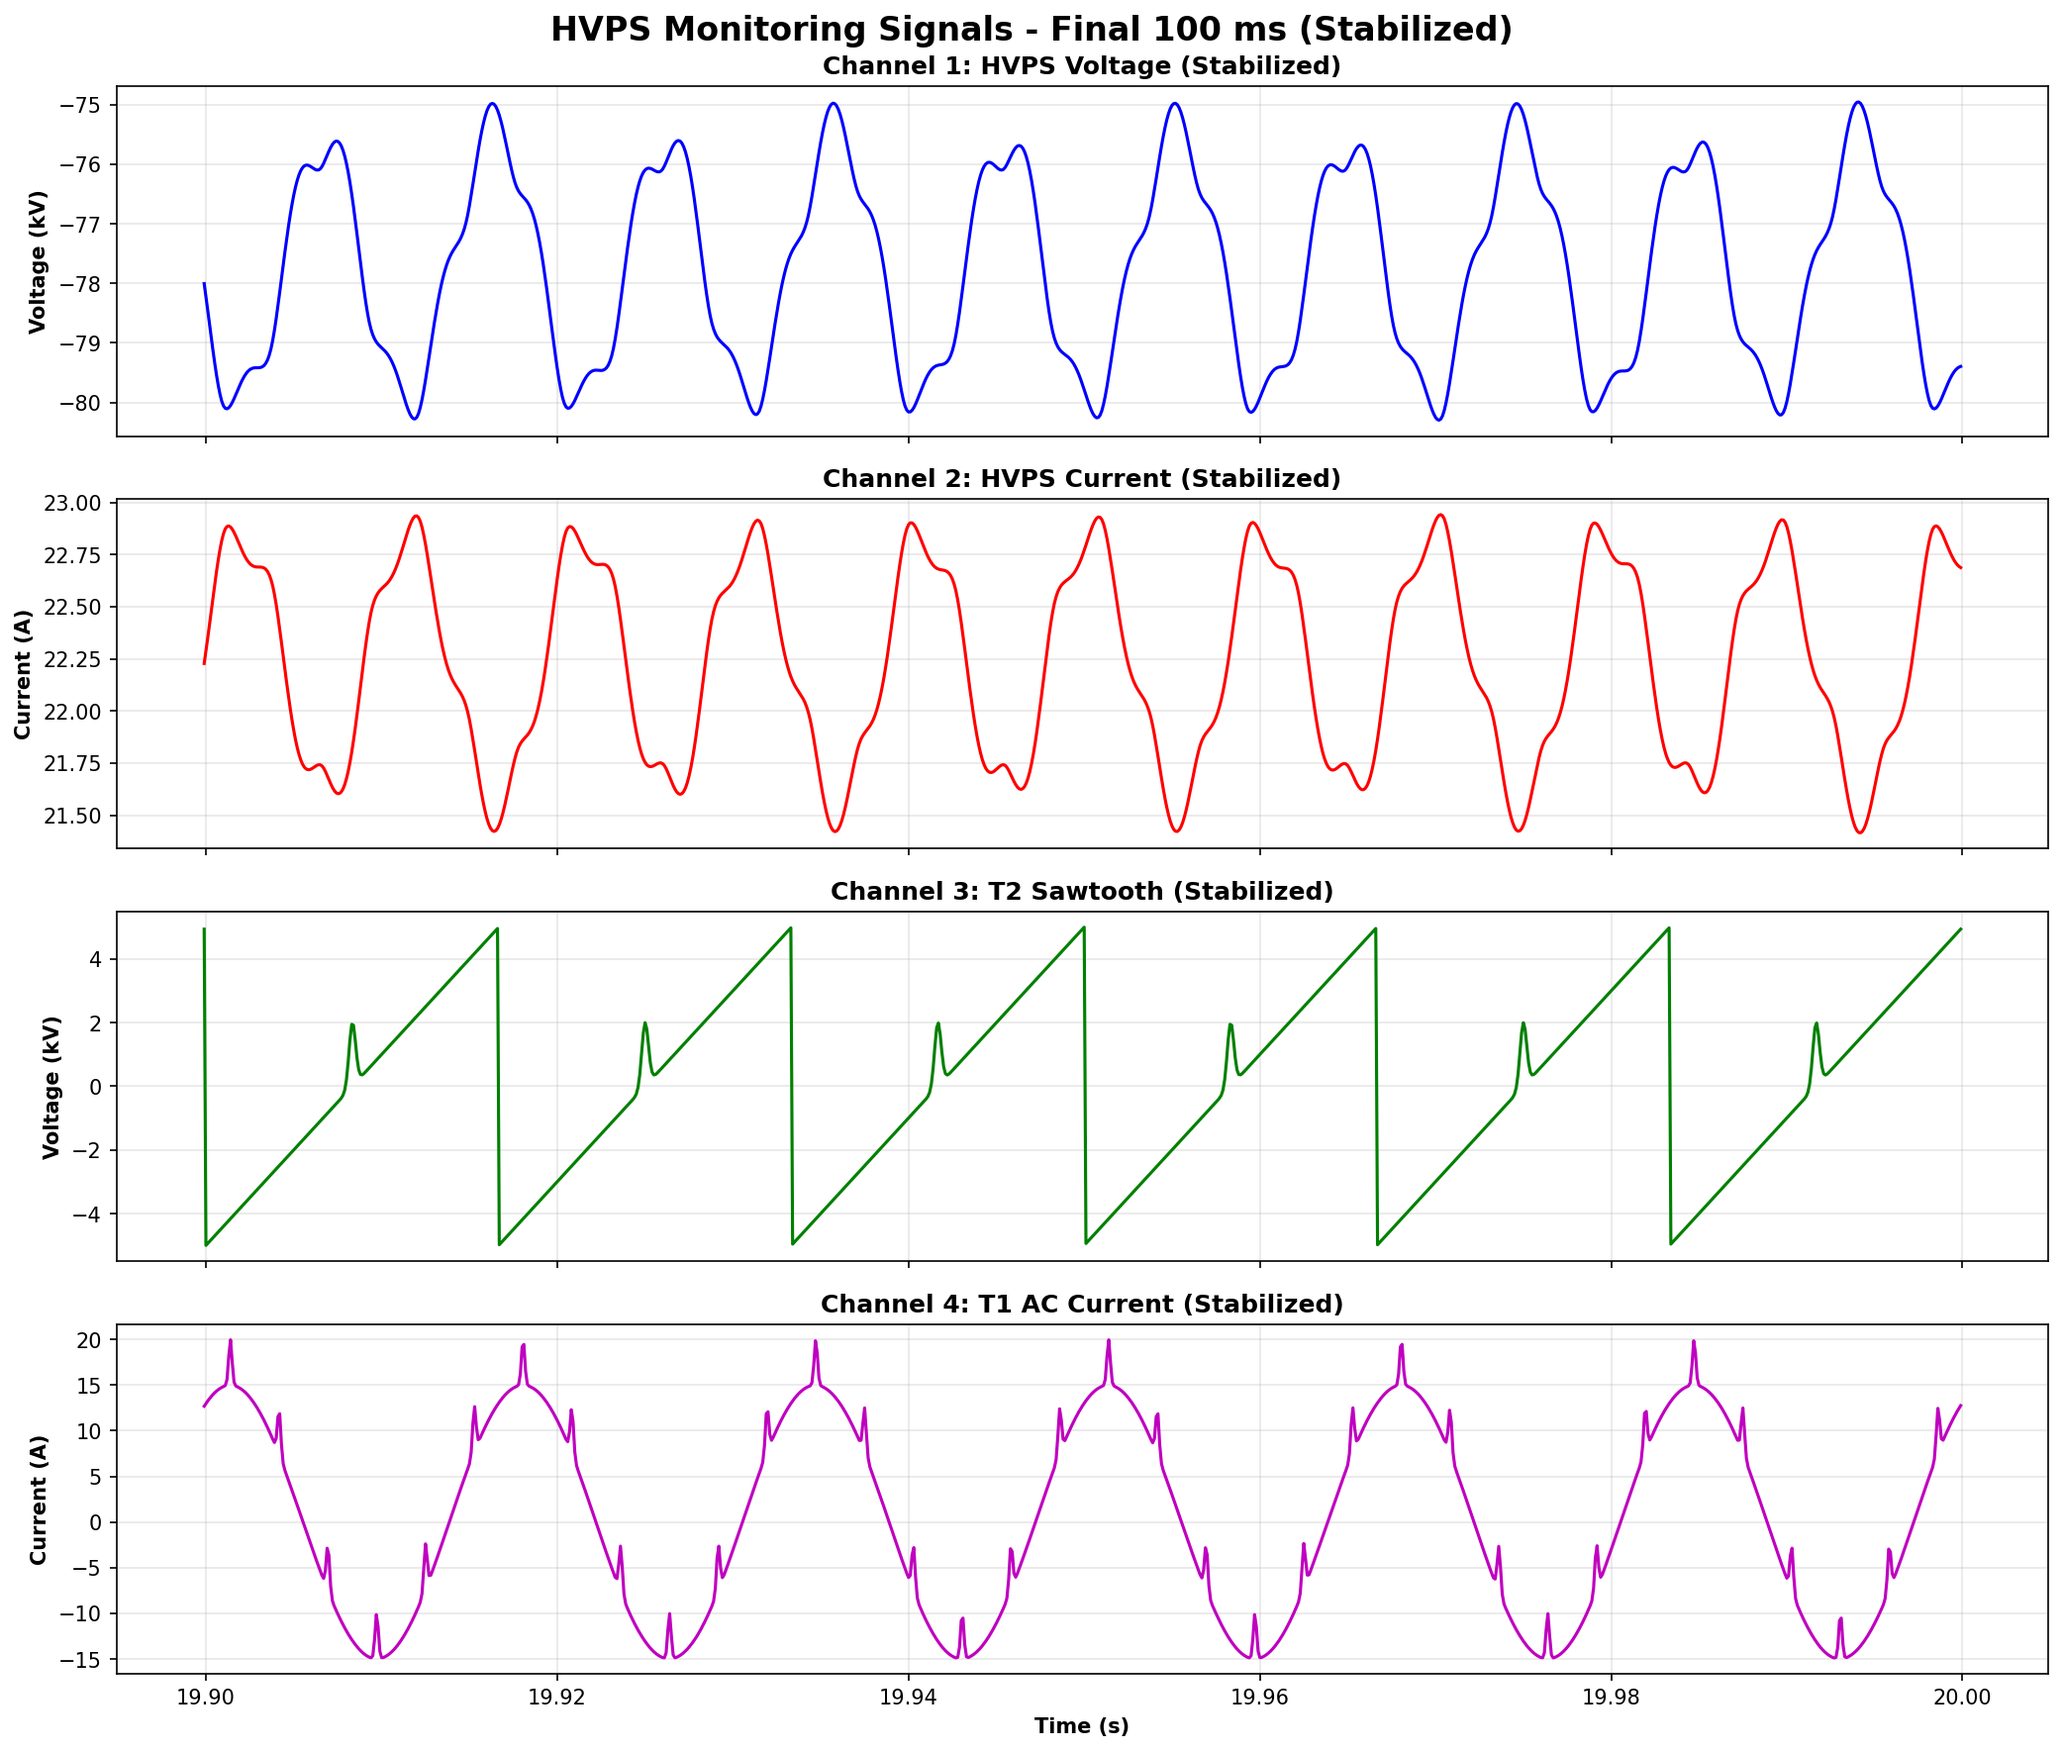
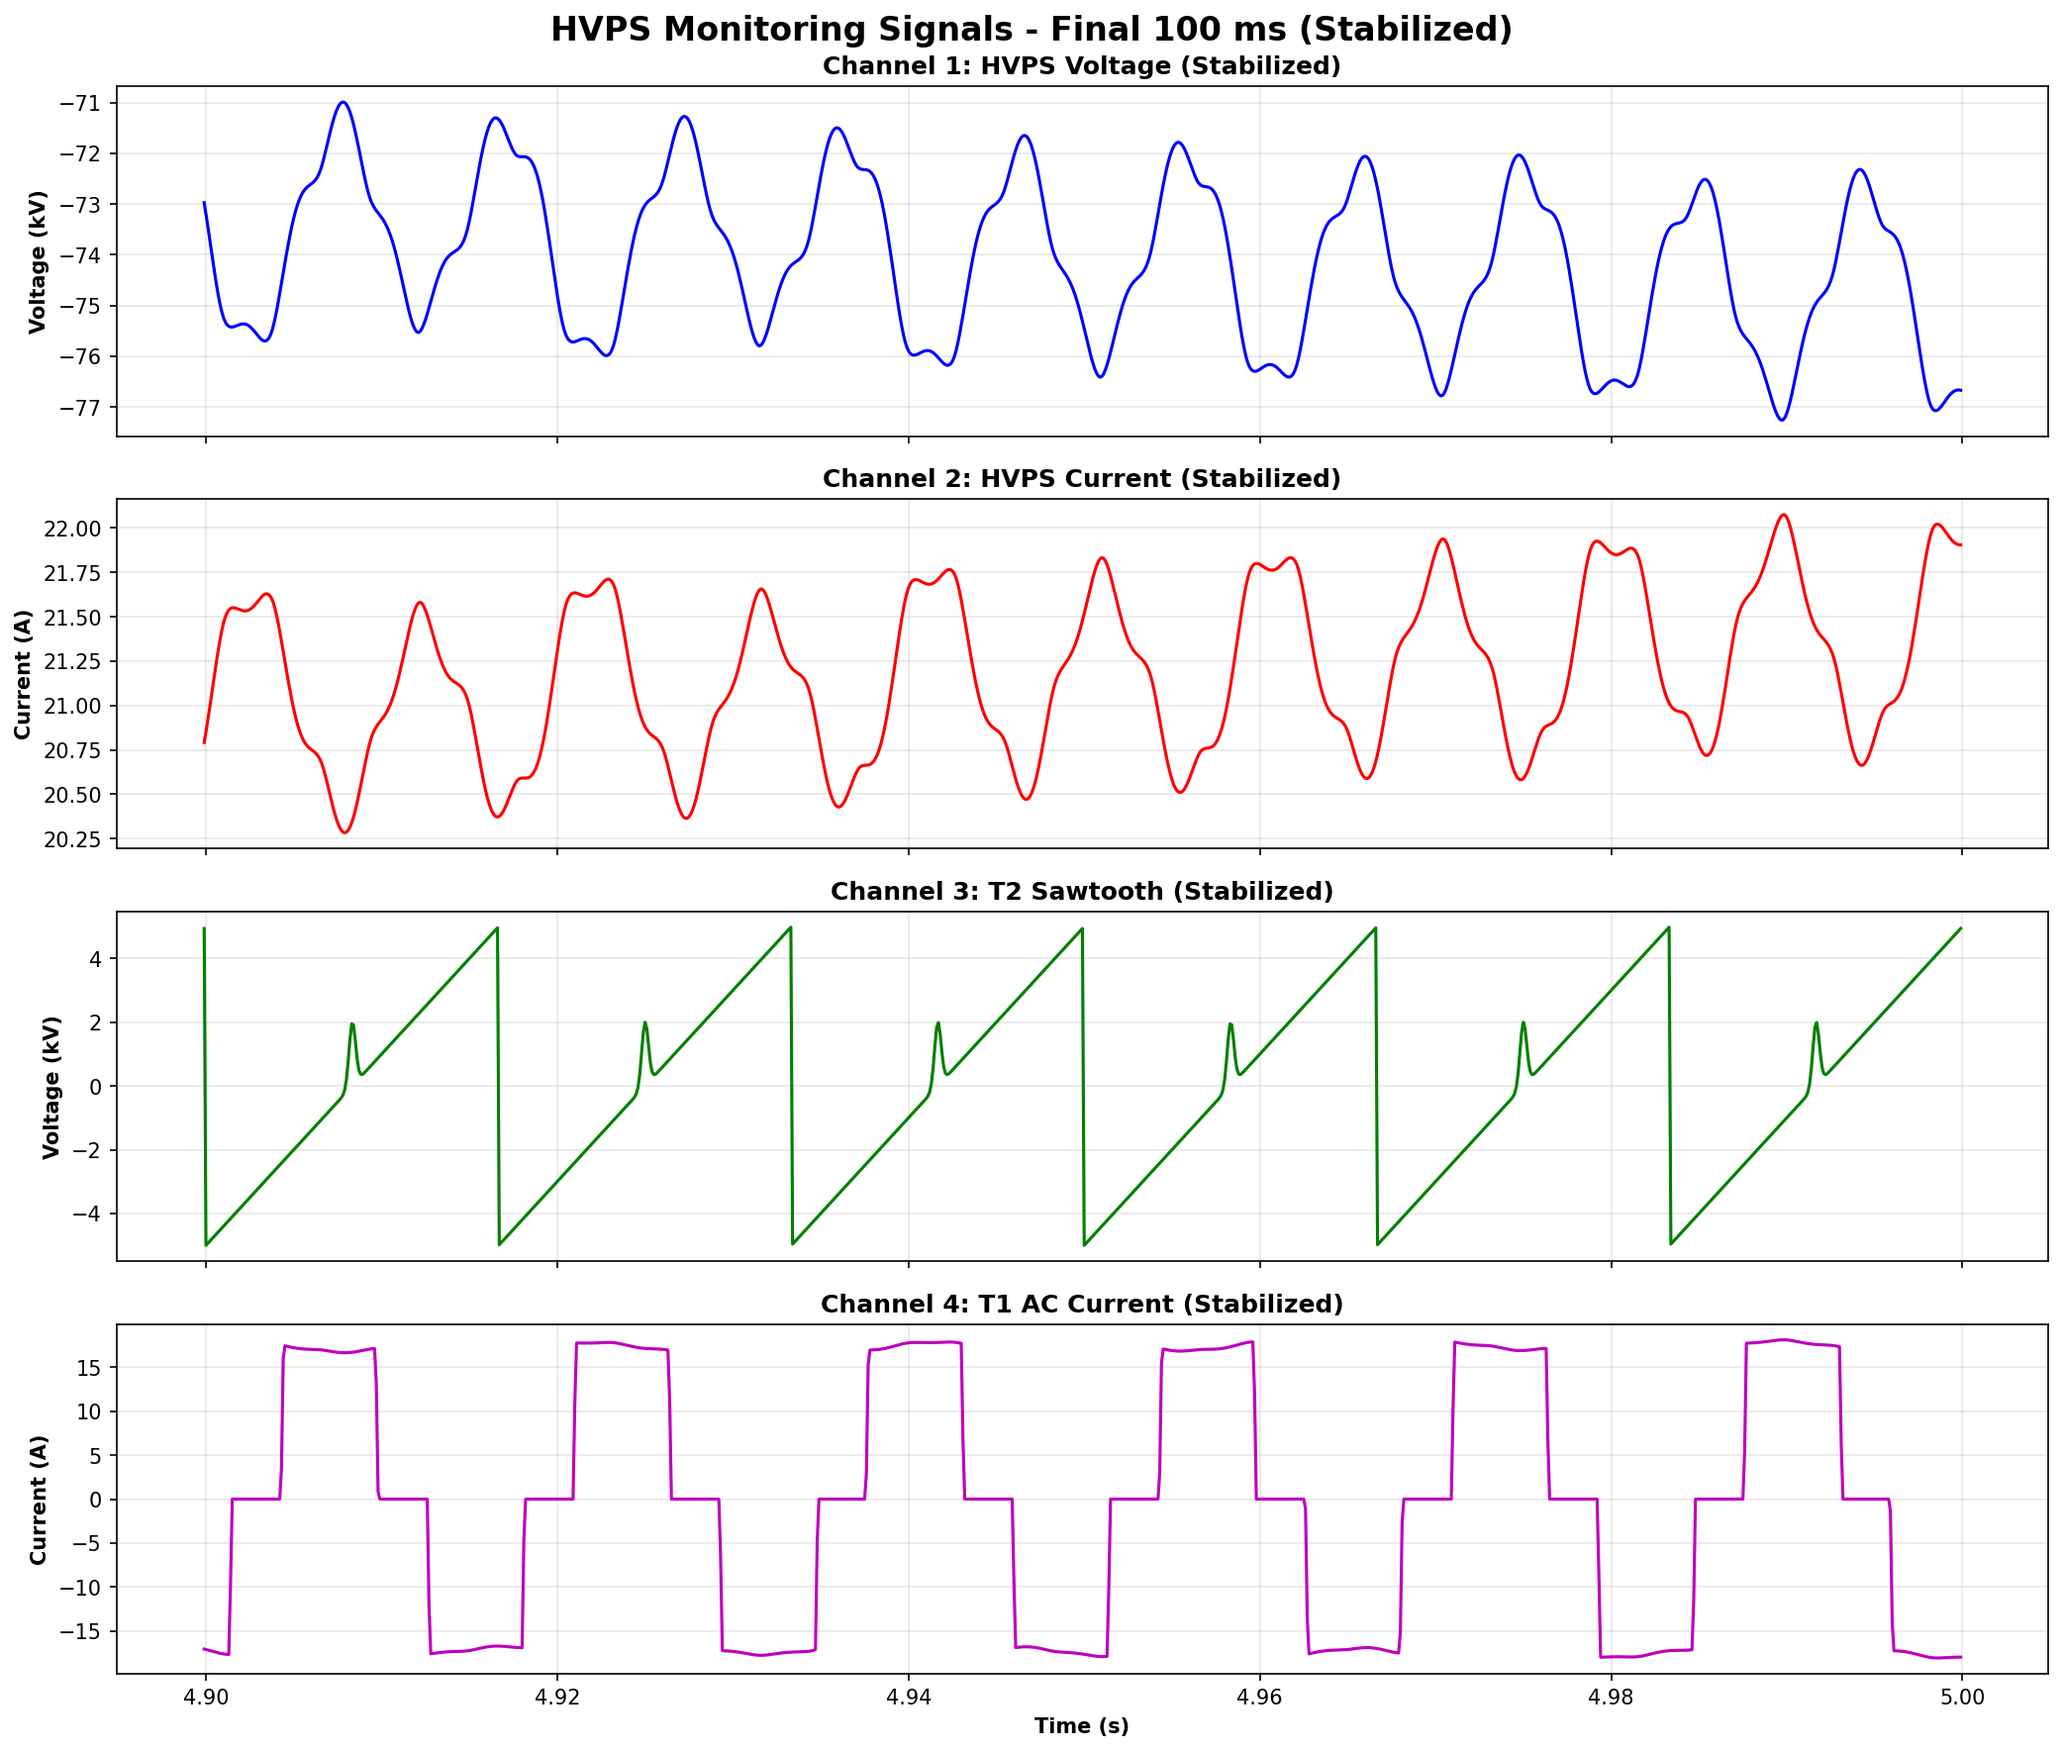
Fix T1 AC current model: replace sinusoidal with quasi-square wave
The transformer primary current in a thyristor-controlled rectifier is a
quasi-square waveform, not sinusoidal. With the large DC link inductor
(0.3H), the DC current is nearly constant, so the reflected AC current
forms flat-topped rectangular blocks.

Physics model changes:
- Each phase conducts for 120° per half-cycle (6-pulse bridge)
- Positive conduction interval: [α+30°, α+150°]
- Negative conduction interval: [α+210°, α+330°]
- Zero current during non-conducting intervals (~60° gaps)
- Sharp commutation transitions (~3° overlap angle)
- Amplitude scales with actual DC output current (I_dc × 0.82)

This replaces the incorrect np.sin() + Gaussian spike model that
produced a sinusoidal waveform, which differs significantly from the
real system's square-like waveform observed on the oscilloscope.

diff --git a/hvps/hvps_sim/simulator.py b/hvps/hvps_sim/simulator.py
@@ -525,10 +525,78 @@ class HVPSSimulator:
         firing_spike = 2.0 * np.exp(-((omega * t % (2 * np.pi) - np.pi) / 0.1)**2)  # Firing spike
         result.inductor2_sawtooth_monitor_kv[i] = sawtooth_base + firing_spike
         # Channel 4: Transformer 1 AC Phase Current (firing circuit health)
-        # AC waveform with thyristor commutation spikes
-        ac_current = 15.0 * np.sin(omega * t + np.radians(cs.firing_angle_deg))  # Phase-shifted AC
-        commutation_spike = 5.0 * np.exp(-((omega * t % (np.pi/3) - np.pi/6) / 0.05)**2)  # Commutation
-        result.transformer1_current_monitor_a[i] = ac_current + commutation_spike
+        # In a 6-pulse thyristor bridge with large DC inductor (0.3H), the
+        # transformer primary current is a QUASI-SQUARE WAVE, not sinusoidal.
+        # Each phase conducts for ~120° per half-cycle as flat-topped blocks.
+        # The large inductor keeps DC current nearly constant, so reflected
+        # AC current forms rectangular pulses.
+        #
+        # For phase A of a 6-pulse bridge with firing angle α:
+        #   Positive conduction: θ ∈ [α + 30°, α + 150°]  (120° block)
+        #   Negative conduction: θ ∈ [α + 210°, α + 330°] (120° block)
+        #   Zero current outside these intervals
+        #
+        # Commutation transitions are sharp (~3-5° overlap angle μ)
+        alpha_rad = np.radians(cs.firing_angle_deg)
+        theta = (omega * t) % (2 * np.pi)  # Electrical angle [0, 2π)
+        
+        # Current amplitude scales with actual DC output current
+        # T1 primary current ≈ I_dc reflected through transformer
+        i_dc = ps.i_out if ps.i_out > 0.1 else 0.0
+        i_amplitude = i_dc * 0.82  # Scale factor for transformer ratio and waveform
+        
+        # Commutation overlap angle (source impedance effect, typically 3-5°)
+        mu_rad = np.radians(3.0)
+        
+        # Calculate conduction intervals for phase A
+        # Positive block: [α + π/6, α + 5π/6]  (i.e., α+30° to α+150°)
+        pos_start = alpha_rad + np.pi / 6
+        pos_end = alpha_rad + 5 * np.pi / 6
+        # Negative block: [α + 7π/6, α + 11π/6] (i.e., α+210° to α+330°)
+        neg_start = alpha_rad + 7 * np.pi / 6
+        neg_end = alpha_rad + 11 * np.pi / 6
+        
+        # Normalize all angles to [0, 2π)
+        pos_start_n = pos_start % (2 * np.pi)
+        pos_end_n = pos_end % (2 * np.pi)
+        neg_start_n = neg_start % (2 * np.pi)
+        neg_end_n = neg_end % (2 * np.pi)
+        
+        # Determine current value based on conduction state
+        def _in_interval(angle, start, end):
+            """Check if angle is within [start, end] on circular [0, 2π)."""
+            if start <= end:
+                return start <= angle <= end
+            else:  # Wraps around 2π
+                return angle >= start or angle <= end
+        
+        ac_current = 0.0
+        
+        # Check positive conduction with commutation ramps
+        if _in_interval(theta, pos_start_n, pos_end_n):
+            # Inside positive conduction block
+            # Rising edge commutation (ramp up over μ degrees)
+            dist_from_start = (theta - pos_start_n) % (2 * np.pi)
+            dist_from_end = (pos_end_n - theta) % (2 * np.pi)
+            if dist_from_start < mu_rad:
+                ac_current = i_amplitude * (dist_from_start / mu_rad)  # Ramp up
+            elif dist_from_end < mu_rad:
+                ac_current = i_amplitude * (dist_from_end / mu_rad)    # Ramp down
+            else:
+                ac_current = i_amplitude  # Flat top
+        elif _in_interval(theta, neg_start_n, neg_end_n):
+            # Inside negative conduction block
+            dist_from_start = (theta - neg_start_n) % (2 * np.pi)
+            dist_from_end = (neg_end_n - theta) % (2 * np.pi)
+            if dist_from_start < mu_rad:
+                ac_current = -i_amplitude * (dist_from_start / mu_rad)  # Ramp down
+            elif dist_from_end < mu_rad:
+                ac_current = -i_amplitude * (dist_from_end / mu_rad)    # Ramp up
+            else:
+                ac_current = -i_amplitude  # Flat bottom
+        # else: ac_current = 0.0 (non-conducting interval)
+        
+        result.transformer1_current_monitor_a[i] = ac_current
 
         # Protection
         result.protection_state[i] = prot.state.name
